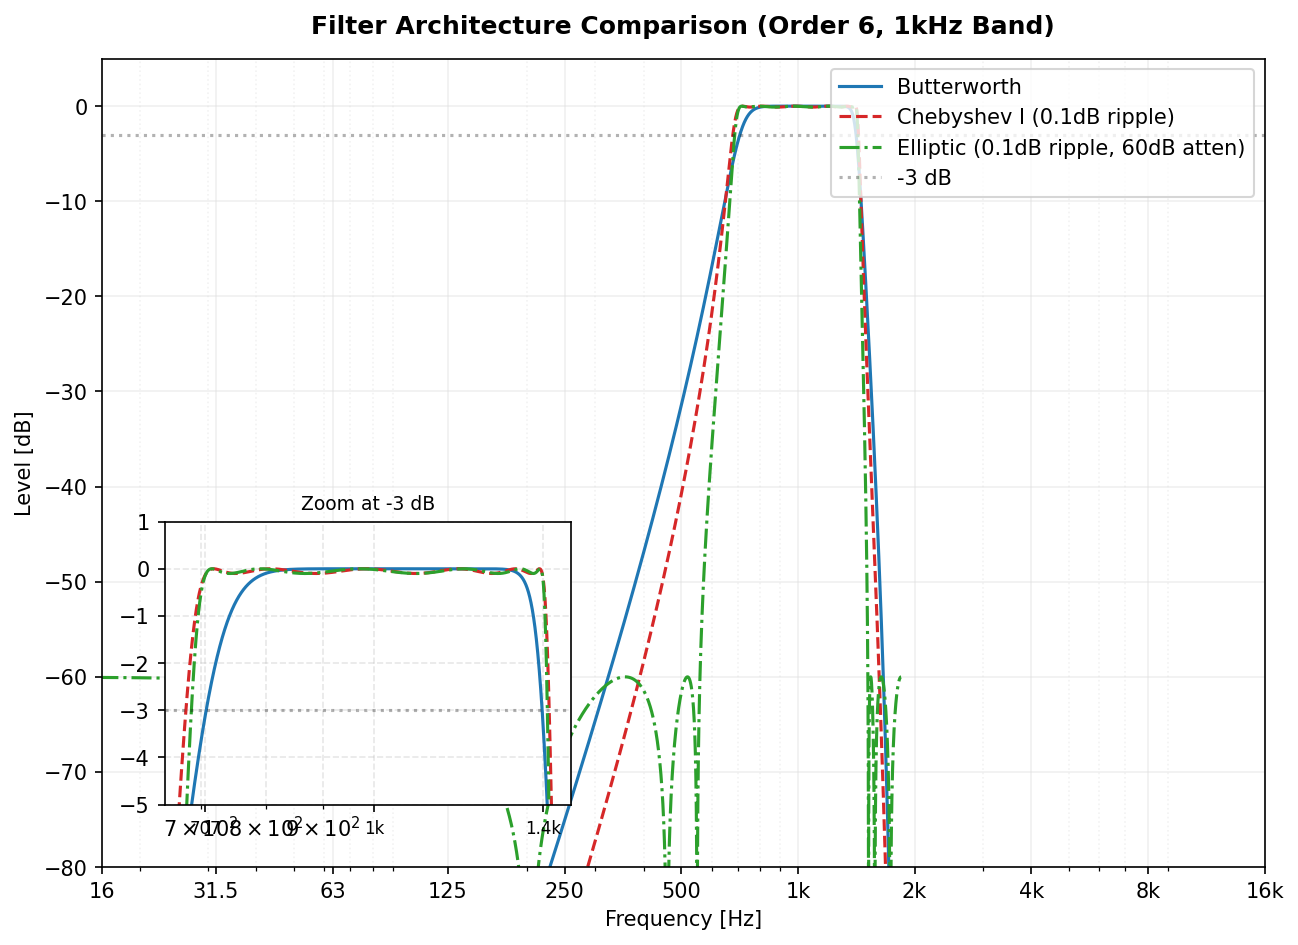
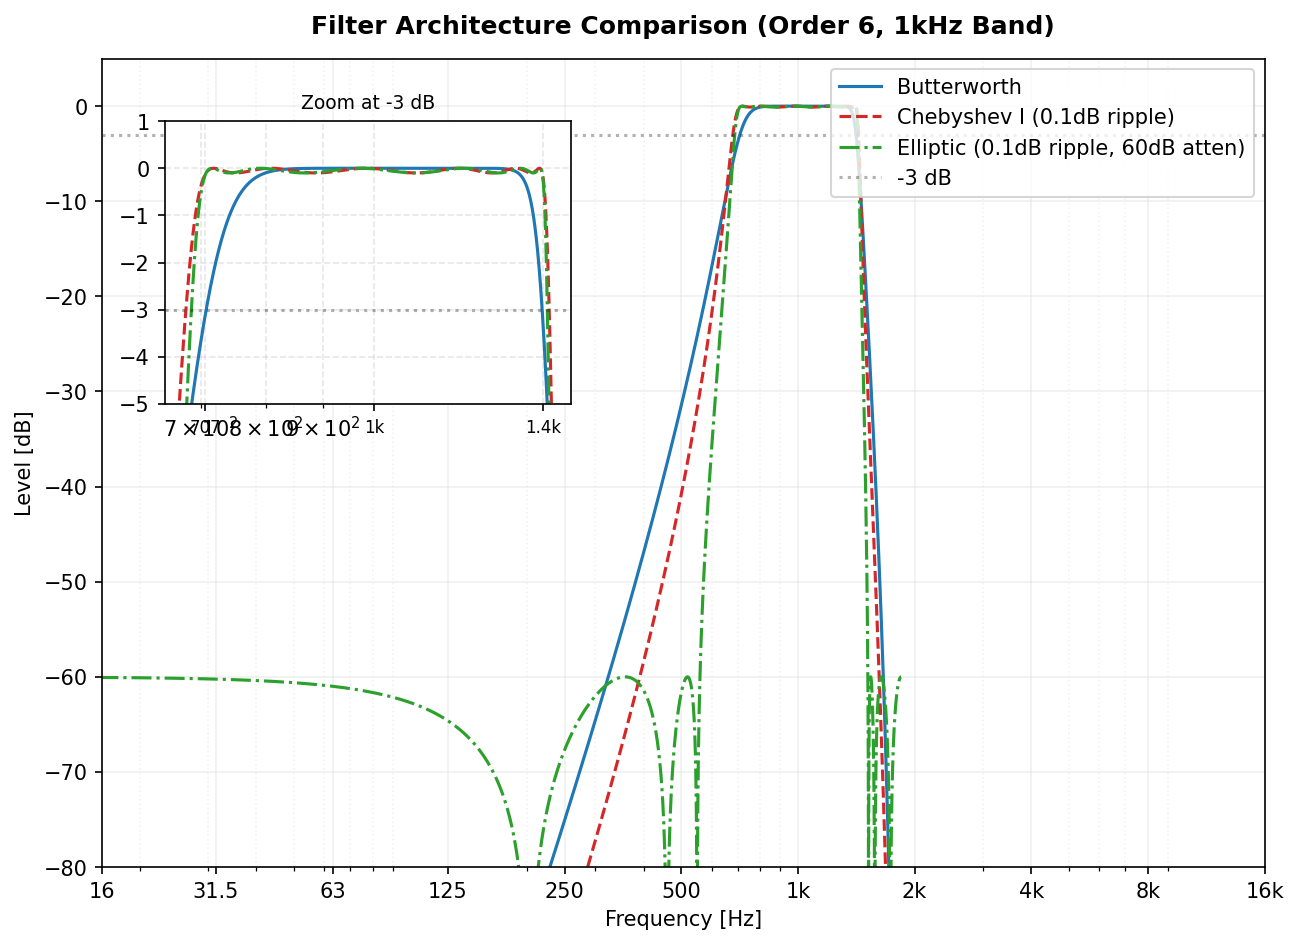
docs: adjust filter comparison zoom position and scale
- Moved zoom inset to the upper left.
- Set zoom inset x-axis scale to logarithmic for consistency.

diff --git a/generate_graphs.py b/generate_graphs.py
@@ -72,7 +72,8 @@ def generate_filter_type_comparison(output_dir: str) -> None:
     
     # Create inset axis for zoom
     from mpl_toolkits.axes_grid1.inset_locator import inset_axes
-    axins = inset_axes(ax, width="35%", height="35%", loc="lower left", borderpad=3)
+    axins = inset_axes(ax, width="35%", height="35%", loc="upper left", borderpad=3)
+    axins.set_xscale("log")
     
     for f_type, label, color, style in filters:
         bank = OctaveFilterBank(fs, fraction=fraction, order=order, limits=limits, filter_type=f_type)
